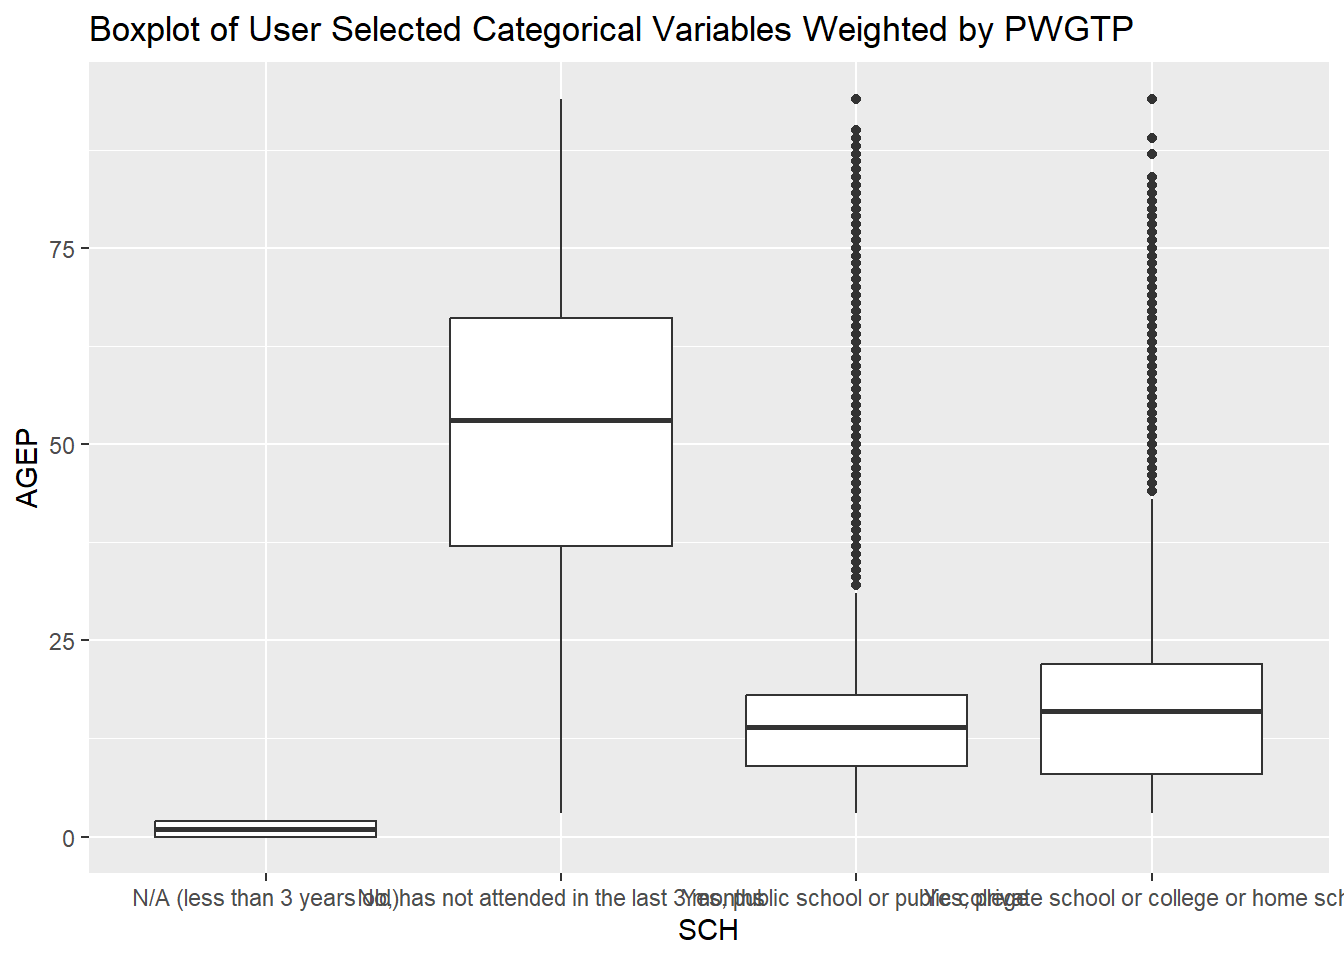
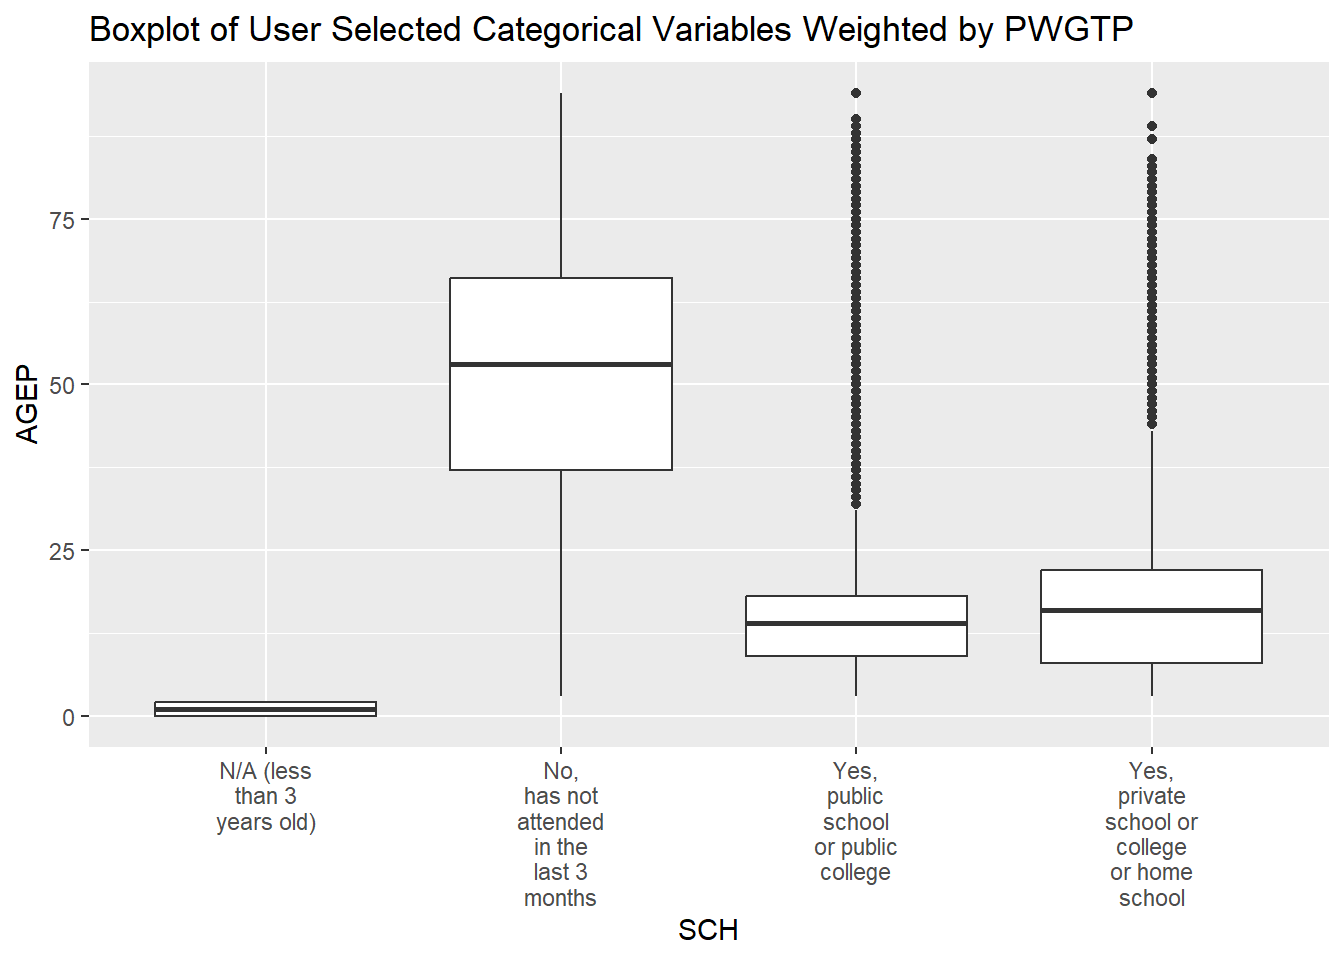
render document with wrapped labels

diff --git a/docs/ST588Project1.html b/docs/ST588Project1.html
@@ -7,7 +7,7 @@
 <meta name="viewport" content="width=device-width, initial-scale=1.0, user-scalable=yes">
 
 
-<title>quarto-input5c8082c59f59d3aa</title>
+<title>quarto-inputad2008c81cd35284</title>
 <style>
 code{white-space: pre-wrap;}
 span.smallcaps{font-variant: small-caps;}
@@ -171,7 +171,7 @@ Tyler Hunt</div></h1>
 <span id="cb2-3"><a href="#cb2-3" aria-hidden="true" tabindex="-1"></a>censusApiTest</span></code><button title="Copy to Clipboard" class="code-copy-button"><i class="bi"></i></button></pre></div>
 <div class="cell-output cell-output-stdout">
 <pre><code>Response [https://api.census.gov/data/2022/acs/acs1/pums?get=SEX,PWGTP,MAR&amp;SCHL=24]
-  Date: 2024-10-05 14:56
+  Date: 2024-10-05 15:01
   Status: 200
   Content-Type: application/json;charset=utf-8
   Size: 938 kB
